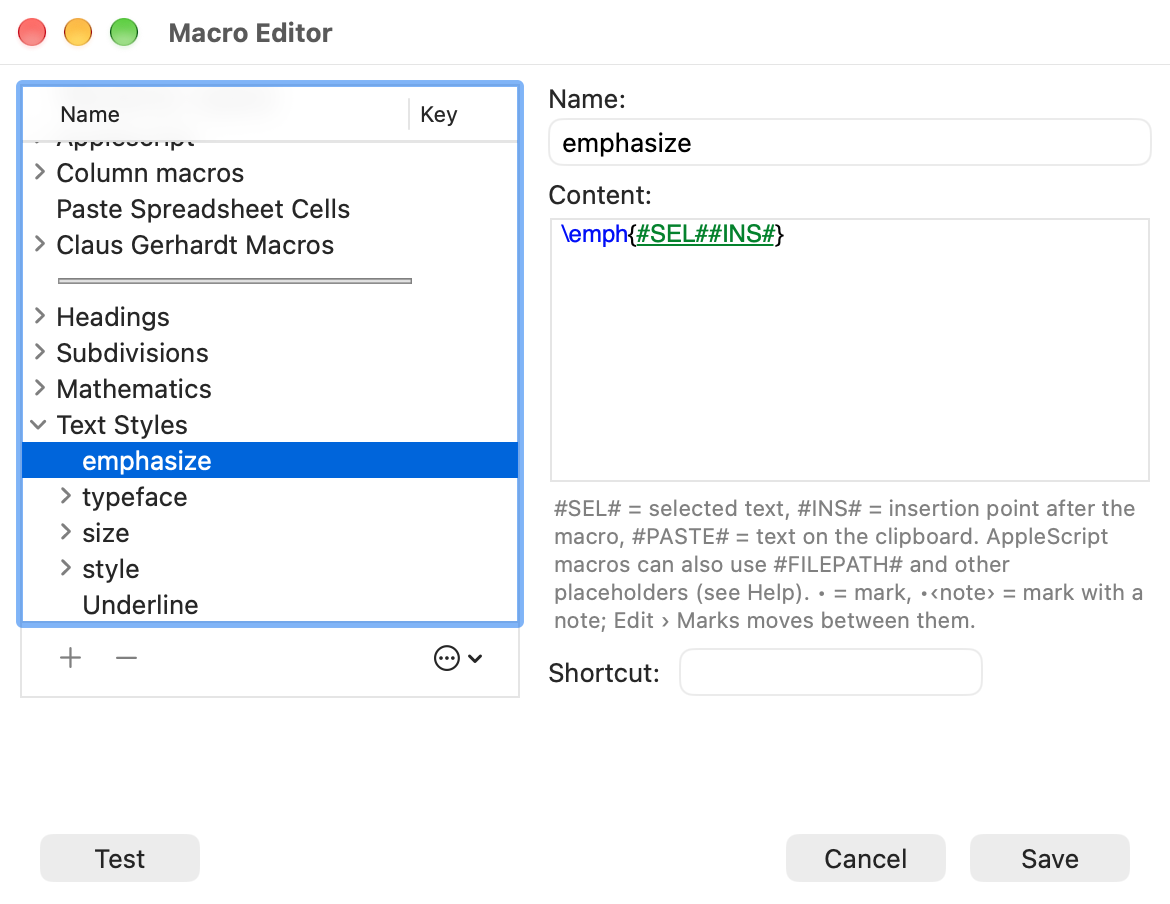
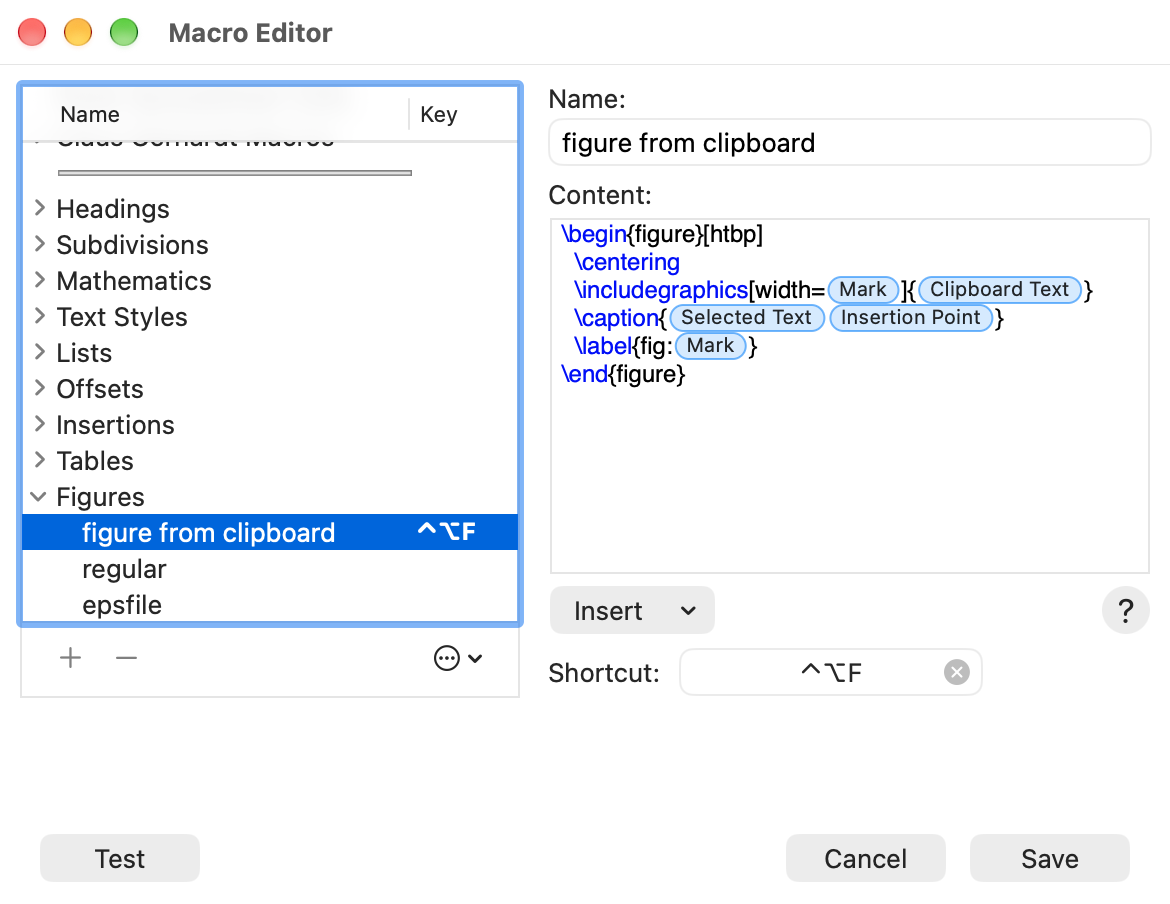
Show the Macro Editor with placeholder tokens
The Macro Editor screenshots show a figure macro whose clipboard text,
selected text, insertion point and marks are tokens, with a shortcut
without Command. The release notes use them for the Macro Editor item,
and the What's New section on shortcuts and key bindings adds them as
its third picture.

Changed region(s): [[0.0, 0.1549, 0.9846, 0.7743], [0.4615, 0.2478, 0.9538, 0.4336], [0.4615, 0.1239, 0.7077, 0.1858]]

diff --git a/website/release-notes-ja.html b/website/release-notes-ja.html
@@ -90,7 +90,7 @@
 <li>編集メニューとコンテキストメニューに「Unicode 正規化」を追加しました。NFC、NFD、NFKC、NFKDのほか、CJK互換漢字を変えないModified NFCとModified NFDを選べます。正規化した選択範囲は「文字情報」で表示します。</li>
 <li>編集メニューに「交換ペースト」を追加しました。選択範囲をクリップボードの文字列で置き換え、置き換えられた文字列をクリップボードに入れます。2か所の文字列を入れ替えるときは、一方をコピーし、もう一方を選択して交換ペーストを選び、最初の位置でペーストします。何も選択していない場合は、通常のペーストと同じです。</li>
 <li>マクロとキーバインドで、<code>#SEL#</code>が選択範囲に置き換わるのと同様に、<code>#PASTE#</code>がクリップボードの文字列に置き換わるようにしました。</li>
-<li>マクロエディタの内容を、ソースと同じようにテーマの色で色分けするようにしました。TeXのマクロはソースと同じ規則で、AppleScriptのマクロはコメント・文字列・予約語・数値・生のイベント（<code>«…»</code>）を色分けします。実行のときに置き換えられるプレースホルダ（TeXのマクロでは<code>#SEL#</code>・<code>#PASTE#</code>・最初の<code>#INS#</code>、AppleScriptのマクロでは<code>#FILEPATH#</code>など）は、マーカーの色に下線を付けて示します。内容に貼り付けた文字は、元のフォントや色を持ち込みません。設定の「ソースのカラー表示」をオフにすると、この色分けもしません。<figure class="note-shot"><img src="assets/release-notes/ja/macro-editor.png" width="585" height="452" alt="プレースホルダに下線の付いたTeXのマクロを示すマクロエディタ" loading="lazy"></figure></li>
+<li>マクロエディタの内容を、ソースと同じようにテーマの色で色分けするようにしました。TeXのマクロはソースと同じ規則で、AppleScriptのマクロはコメント・文字列・予約語・数値・生のイベント（<code>«…»</code>）を色分けします。実行のときに置き換えられるプレースホルダ（<code>#SEL#</code>・<code>#INS#</code>・<code>#PASTE#</code>、マーク•、AppleScriptのマクロの<code>#FILEPATH#</code>などのパス）は、「選択中の文字列」のように意味を示す丸い札で表示します。マクロには書いたとおりの文字列で保存します。プレースホルダは入力するか、内容の下の「挿入」メニューから選びます。その右の「?」で一覧を見られます。内容に貼り付けた文字は、元のフォントや色を持ち込みません。設定の「ソースのカラー表示」をオフにすると、この色分けもしません。<figure class="note-shot"><img src="assets/release-notes/ja/macro-editor.png" width="585" height="452" alt="プレースホルダを札で示すTeXのマクロと、「挿入」メニュー、Commandなしのショートカットを示すマクロエディタ" loading="lazy"></figure></li>
 <li>日本語の文章でASCIIと見分けにくい全角英数字・記号とマイナス記号を、「設定」→「テーマ」→「強調表示」の「全角英数記号」「全角英数記号の背景」の色で表示できるようにしました。同梱のテーマにはこの色を設定してあります。この色を持たないテーマ（<code>~/Library/TeXShop/Themes</code>にある既存のテーマを含む）では、ほかの文字と同じに表示します。<figure class="note-shot"><img src="assets/release-notes/ja/fullwidth.png" width="591" height="220" alt="全角の英数字・記号が別の色で表示されたソース" loading="lazy"></figure></li>
 <li>文字コードのマジックコメントがないファイルを開くときに、文字コードを自動で判定するようにしました。BOMの有無にかかわらずUnicodeのファイル、日本語・中国語・韓国語のファイル、利用者の言語の1バイト文字コードのファイルを判定できます。inputencで宣言された文字コードも手がかりにします。判定は隠し設定で無効にできます。</li>
 <li><a href="https://github.com/Uwe-Schmock">Uwe Schmock</a>氏の報告により、「実験」の処理を専用コンソールに分離し、入力・中止・後片付けを通常のタイプセットと独立させました。実験を閉じたり置き換えたりしても、その実験の処理だけを停止します。「実験」のコンソールは、「実験」のソースとプレビューのパネルと同じく、書類のウインドウの上に浮かびます。「実験」をタイプセットしたときと「コンソールを表示」（Command＋0）でパネルの前に出て、パネルをクリックするとそのパネルが前に出ます。設定の「コンソール」で「エラーがあったとき表示」を選んでいるときは、TeX がエラーを報告するか入力を待つまで、「実験」のコンソールは表示しません（<a href="https://github.com/TeXShopProject/TeXShop/issues/8">#8</a>）。<figure class="note-shot"><img src="assets/release-notes/ja/experiment.png" width="572" height="431" alt="定理1を参照する断片を入れた「実験」のソースのパネルと、それを組んだ「実験」のプレビュー" loading="lazy"></figure></li>
@@ -138,7 +138,7 @@
 <li>同梱のテーマに、それぞれの配色に合うexpl3の色を設定しました。この色を持たないテーマ（<code>~/Library/TeXShop/Themes</code>にある既存のテーマを含む）では、従来どおり標準のexpl3の色を使います。</li>
 <li>同梱のテーマで、背景の上で読みにくかった色を直しました。Draculaの丸括弧・波括弧・角括弧をテーマの文字色に、TransparentThemeのマーカー（<code>$</code>・<code>&amp;</code>・量指定）の色を暗い黄色に、SolarizedLiteのマーカーの色をテーマの索引の色に変えました。<code>~/Library/TeXShop/Themes</code>にある既存のテーマは色が変わりません。色は「設定 → テーマ」で変えられます。</li>
 <li>行番号をシステムの等幅フォントで表示し、どの行番号も桁がそろうようにしました。</li>
-<li>ダイアログのボタンを、AppleのHuman Interface Guidelinesに沿って配置しました。既定のボタンを右端に、その左に「キャンセル」を、ウインドウを閉じない操作を左端に置き、互いに間隔をあけました。マクロエディタでは、一覧の下の帯に、複数置換の窓と同じく「＋」「−」と「サブメニュー」「区切り」「複製」のメニューを置き、内容欄をソースと同じフォントとテーマの色で表示し、#SEL#・#INS#・#PASTE#の説明を加えました。</li>
+<li>ダイアログのボタンを、AppleのHuman Interface Guidelinesに沿って配置しました。既定のボタンを右端に、その左に「キャンセル」を、ウインドウを閉じない操作を左端に置き、互いに間隔をあけました。マクロエディタでは、一覧の下の帯に、複数置換の窓と同じく「＋」「−」と「サブメニュー」「区切り」「複製」のメニューを置き、内容欄をソースと同じフォントとテーマの色で表示し、プレースホルダの一覧を「挿入」の右の「?」で見られるようにしました。</li>
 <li>すべての言語で、画面の文字をシステムフォントで表示するようにしました。日本語・韓国語・中国語（簡体字）・スペイン語の一部の窓とパネル、いくつかの言語の検索パネル・マクロエディタ・LaTeXパネル・行列パネル、および文字情報は、ヒラギノ、AquaKana、黒体、Apple SD Gothic Neo、Lucida Grande、Helvetica、Times New Roman などの固定したフォントを使っていました。倍率パネルの「Scale」やルートファイル設定の例のように、末尾が欠けていたラベルも全体を表示するようにしました。</li>
 <li>いくつかの窓と言語で、欠けたり重なったりしていた文字と選択肢を、すべて表示するようにしました。窓を小さくしたときのコンソール上部のボタンとテキスト注釈パネルの揃えの選択肢、コンソールの入力欄の説明（2行で表示）です。入力欄のフォーカスの枠が窓の端で切れたり、ほかの部品に重なったりしないようにし、コンソールの入力欄の上下の余白をそろえました。</li>
 <li>Experimentのコンソールの入力欄を、書類のコンソールと同じ上下の余白と高さにし、フォーカスの枠も表示するようにしました。スペルチェックパネルの「すべて変更」の置換欄を、折り返さず1行で表示するようにしました。プレビューで選択範囲の横に出る大きさの表示が欠けないようにしました。数値の欄と横の矢印ボタンの間を広げ、フォーカスの枠が矢印ボタンにかからないようにしました。</li>
@@ -155,7 +155,7 @@
 <li><strong>プレビューの矢印キー</strong>：<a href="https://github.com/svb-bit">svb-bit</a>氏の提案により、単ページ・見開き表示で拡大したページが縦にスクロールできるとき、上下矢印キーはページ内を画面上の一定量ずつスクロールし、ページ端で止まるようにしました。前後のページへは移りません。ページを送るには、Command＋右／左矢印、Page Up／Page Down、スペースキーを使います（<a href="https://github.com/TeXShopProject/TeXShop/issues/9">#9</a>）。</li>
 <li><strong>macOSで設定したメニューのショートカット</strong>：一部のメニュー名の変更により、macOSの「システム設定」で登録したTeXShop用のショートカット（<code>NSUserKeyEquivalents</code>）が機能しなくなる場合があります。今後は、TeXShopの「設定」→「キーボード」にある「メニューのショートカット」で設定してください。旧<code>KeyEquivalents.plist</code>の「キーバインド」サブメニューの先頭項目への指定は、「ソース」の「キーバインド」へ引き継ぎます。旧「コマンド補完」サブメニューの「用語を追加」への指定は、名前でも番号でも「コマンド補完リストに追加」へ引き継ぎます。削除した編集項目や範囲外の番号への指定は無視します。コマンド補完ファイルの編集は「設定」→「キーボード」のボタンに、キーバインドの編集は同じ場所の一覧になり、旧メニュー名による割り当ては使えません。</li>
 <li><strong>マクロのショートカット</strong>：マクロのショートカットは、キーを入力して修飾キーにチェックを付けるのではなく、マクロエディタでキーを押して設定するようになりました。Commandを含まないControlの組み合わせやF1〜F20も使えます。以前の版で保存したショートカットはCommand付きのままです。</li>
-<li><strong>マーク</strong>：マークはコマンド補完がなくても使えるので、マークの操作を「編集」→「マーク」に移しました。Controlキーを押したときにしか出なかった「メモ付きマークを挿入」（⌃⌘8）を常に表示し、選んだ文字をメモにできるようにしました。「マークの使い方…」で•と•‹メモ›のヘルプを開けます。メニュー項目にはそれぞれ説明を表示し、マクロエディタの説明欄とキーバインドの一覧の「？」にもマークの説明を載せました。</li>
+<li><strong>マーク</strong>：マークはコマンド補完がなくても使えるので、マークの操作を「編集」→「マーク」に移しました。Controlキーを押したときにしか出なかった「メモ付きマークを挿入」（⌃⌘8）を常に表示し、選んだ文字をメモにできるようにしました。「マークの使い方…」で•と•‹メモ›のヘルプを開けます。メニュー項目にはそれぞれ説明を表示し、マクロエディタとキーバインドの一覧の「?」にもマークの説明を載せました。</li>
 <li><strong>コマンド補完</strong>：「ソース」メニューの「コマンド補完」サブメニューには「用語を追加」しかなかったので、同じ位置の1項目「コマンド補完リストに追加」（⇧⌘W）にまとめました。選んだ文字列をコマンド補完のリストに加えます。</li>
 <li><strong>スタイルファイルを開く</strong>：「ヘルプ」メニューから「ファイル」メニューの「開く」の下へ移し、ファイルを探すコマンドの既定を、kpsewhich を呼ぶだけの teTeX のスクリプト kpsetool から <code>kpsewhich -progname=latex -format=tex</code> に変えました。パネルの題名は「スタイルファイルを開く」になり、MnSymbol.sty のように大文字を含む名前もあるので、「小文字推奨」の注記を外しました。設定の「タイプセット」の項目名は「kpsewhich」になりました。保存してあるコマンドはそのまま使えます。</li>
 <li><strong>Apple Distiller</strong>：設定の「タイプセット」から Apple Distiller の選択を取り除きました。Distiller は macOS 14 で削除された <code>/usr/bin/pstopdf</code> を呼んでいたため、PostScript は常に Ghostscript で変換します。この群の名前は「Ghostscript」、スイッチの名前は「-dALLOWPSTRANSPARENCY」になりました。</li>

diff --git a/website/release-notes.html b/website/release-notes.html
@@ -70,7 +70,7 @@
 <li>Add Unicode Normalization to the Edit menu and to the contextual menu. It offers NFC, NFD, NFKC and NFKD, and Modified NFC and Modified NFD, which keep CJK compatibility ideographs unchanged. Character Info then shows the normalized selection.</li>
 <li>Add Swap with Clipboard to the Edit menu. It replaces the selection with the text on the clipboard and puts the replaced text on the clipboard. To exchange two pieces of text, copy one, select the other and choose Swap with Clipboard, then paste where the first one was. With nothing selected, it pastes as usual.</li>
 <li>Expand <code>#PASTE#</code> in macros and key bindings to the text on the clipboard, as <code>#SEL#</code> stands for the selection.</li>
-<li>Color the contents of the Macro Editor as the source is colored, in the theme’s colors. A TeX macro follows the rules of the source; an AppleScript macro shows its comments, text in quotes, reserved words and numbers. The names that a macro replaces when it runs, <code>#SEL#</code>, <code>#PASTE#</code> and the first <code>#INS#</code> in a TeX macro and the file paths in an AppleScript macro, have an underline in the marker color. Paste adds only the text, without its fonts or colors. Turning off Syntax Coloring in Settings turns this coloring off as well.<figure class="note-shot"><img src="assets/release-notes/en/macro-editor.png" width="585" height="452" alt="The Macro Editor showing a TeX macro whose placeholders are underlined" loading="lazy"></figure></li>
+<li>Color the contents of the Macro Editor as the source is colored, in the theme’s colors. A TeX macro follows the rules of the source; an AppleScript macro shows its comments, text in quotes, reserved words and numbers. The placeholders that a macro replaces when it runs, <code>#SEL#</code>, <code>#INS#</code>, <code>#PASTE#</code>, the marks • and <code>#FILEPATH#</code> and the other paths of an AppleScript macro, are shown as rounded tokens that say what they stand for, such as Selected Text; the macro keeps them as they are written. Type a placeholder, or choose it from the Insert menu below the contents; the help button at its right lists them all. Paste adds only the text, without its fonts or colors. Turning off Syntax Coloring in Settings turns this coloring off as well.<figure class="note-shot"><img src="assets/release-notes/en/macro-editor.png" width="585" height="452" alt="The Macro Editor showing a TeX macro whose placeholders are tokens, with the Insert menu and a shortcut without Command" loading="lazy"></figure></li>
 <li>Color fullwidth letters, digits and symbols, and the minus sign, which look much like ASCII in Japanese text, with the new Fullwidth and Fullwidth (Background) colors under Settings → Themes → Highlights. The bundled themes define these colors; themes without them, including existing themes in <code>~/Library/TeXShop/Themes</code>, show these characters like other text.<figure class="note-shot"><img src="assets/release-notes/en/fullwidth.png" width="591" height="220" alt="A source with fullwidth letters, digits and symbols shown in their own color" loading="lazy"></figure></li>
 <li>Detect the encoding of a file that has no encoding magic comment when it is opened. Unicode files with or without a byte order mark, Japanese, Chinese and Korean files, and files in one-byte encodings of the user’s languages are recognized, with the encoding declared to inputenc as a hint. A hidden setting turns the detection off.</li>
 <li>Run Experiment jobs in a separate console with independent input, cancellation and cleanup, so they do not interfere with normal typesetting. Closing or replacing an Experiment cancels only its own job. The Experiment console floats with the Experiment source and preview panels: it comes in front of them when an Experiment is typeset and with Show Console (Command-0), and a panel that is clicked comes in front of it again. When Settings → Console shows the console only when an error occurs, the Experiment console stays hidden until TeX reports an error or waits for input. Reported by <a href="https://github.com/Uwe-Schmock">Uwe Schmock</a> (<a href="https://github.com/TeXShopProject/TeXShop/issues/8">#8</a>).<figure class="note-shot"><img src="assets/release-notes/en/experiment.png" width="572" height="431" alt="The Experiment source panel with a fragment that refers to Theorem 1, and the Experiment preview showing it typeset" loading="lazy"></figure></li>
@@ -118,7 +118,7 @@
 <li>Give each bundled theme expl3 colors that suit it. Themes without these colors, including existing themes in <code>~/Library/TeXShop/Themes</code>, keep the built-in expl3 colors.</li>
 <li>Show parentheses and each curly brace and square bracket in the text color of the bundled Dracula theme, and the marker color of $ and &amp; in a dark yellow in TransparentTheme and in the theme’s index color in SolarizedLite; they were almost invisible on the background. Themes already in <code>~/Library/TeXShop/Themes</code> keep their colors, which can be changed in Settings → Themes.</li>
 <li>Draw line numbers in the system’s monospaced font, so that the digits of all line numbers line up.</li>
-<li>Space the buttons of dialogs as the Human Interface Guidelines describe: the default button at the trailing edge with Cancel beside it, and actions that do not close the window at the leading edge. The macro editor edits its list with + and − buttons and a menu for Submenu, Separator and Duplicate in a bar at the bottom of the list, as in the Multiple Replace window, shows its contents in the source font and the theme colors, and explains #SEL#, #INS# and #PASTE#.</li>
+<li>Space the buttons of dialogs as the Human Interface Guidelines describe: the default button at the trailing edge with Cancel beside it, and actions that do not close the window at the leading edge. The macro editor edits its list with + and − buttons and a menu for Submenu, Separator and Duplicate in a bar at the bottom of the list, as in the Multiple Replace window, shows its contents in the source font and the theme colors, and lists the placeholders under the help button next to Insert.</li>
 <li>Show interface text in the system font in every language. Some windows and panels in the Japanese, Korean, Simplified Chinese and Spanish localizations, the Find panel, Macro Editor, LaTeX panel and Matrix panel of several localizations, and Character Info used fixed fonts such as Hiragino, AquaKana, Heiti, Apple SD Gothic Neo, Lucida Grande, Helvetica or Times New Roman. Labels that were cut off, such as Scale in the magnification panel and the examples in the root file sheet, now show their whole text.</li>
 <li>Show the whole text of labels and choices that were cut off or drawn over each other in some windows and languages: the buttons at the top of the console and the alignment choices of the text annotation panel when these windows are made smaller, and the explanation in the input field of the console, which now uses two lines. The keyboard focus highlight around input fields is no longer cut off at the window edge or drawn over other controls, and the input field of the console has the same margin above and below.</li>
 <li>The input field of the Experiment console has the same margins as that of the console, and shows the keyboard focus highlight. The replacement field below the spelling panel stays on one line, and the size shown beside a selection in the preview is no longer cut off. Numeric fields are further apart from their arrow buttons, so that the focus highlight does not cover them.</li>
@@ -135,7 +135,7 @@
 <li><strong>Arrow keys in the preview:</strong> in single-page and two-page layouts, when an enlarged page can scroll vertically, the Up and Down Arrow keys scroll within the page at a consistent on-screen step and stop at its edge instead of turning the page. Use Command-Right/Left Arrow, Page Up/Page Down, or Space to change pages. Suggested by <a href="https://github.com/svb-bit">svb-bit</a> (<a href="https://github.com/TeXShopProject/TeXShop/issues/9">#9</a>).</li>
 <li><strong>Menu shortcuts set in macOS:</strong> some menu items have been renamed, so shortcuts assigned to TeXShop in macOS System Settings (<code>NSUserKeyEquivalents</code>) may no longer work. Use TeXShop’s built-in shortcut editor under Settings → Keyboard → Menu Shortcuts instead. Existing <code>KeyEquivalents.plist</code> entries for the former Key Bindings submenu’s first item still apply to the Key Bindings item in Source, and entries for Add Word in the former Command Completion submenu, by title or by position, apply to Add to Command Completion List. Entries for removed editing items or out-of-range numbers are ignored. The command completion file editor is now a button in Settings → Keyboard, and key bindings are a list there; they cannot be assigned by their former menu titles.</li>
 <li><strong>Macro shortcuts:</strong> a macro’s shortcut is now set in the Macro Editor by pressing it, instead of typing the key and checking the modifiers, and it may use Control without Command, or one of F1–F20. Shortcuts saved by earlier versions keep Command.</li>
-<li><strong>Marks:</strong> the mark commands have moved to Edit → Marks, since marks work without command completion. Insert Mark with Note (Control-Command-8), which appeared only while Control was held, is now always in the menu and turns selected text into the note, and How to Use Marks opens the help page about • and •‹note›. The menu items explain themselves in tooltips, the macro editor explains marks below its contents, and the ? button of the key bindings list shows them.</li>
+<li><strong>Marks:</strong> the mark commands have moved to Edit → Marks, since marks work without command completion. Insert Mark with Note (Control-Command-8), which appeared only while Control was held, is now always in the menu and turns selected text into the note, and How to Use Marks opens the help page about • and •‹note›. The menu items explain themselves in tooltips, the help button of the macro editor lists marks, and the ? button of the key bindings list shows them.</li>
 <li><strong>Command completion:</strong> the Command Completion submenu in the Source menu, whose only item was Add Word, is replaced with one item in its place, Add to Command Completion List, which keeps the keyboard shortcut of Add Word. It adds the selected text to the command completion list.</li>
 <li><strong>Open Style File:</strong> it has moved from the Help menu to the File menu, below Open, and finds its files with <code>kpsewhich -progname=latex -format=tex</code> by default instead of the teTeX script kpsetool, which only called kpsewhich. Its panel is titled Open Style File and no longer suggests lower case, since names such as MnSymbol.sty must be typed as they are. The setting under Settings, Typesetting is now named kpsewhich; a command saved there keeps working.</li>
 <li><strong>Apple Distiller:</strong> the choice under Settings, Typesetting is removed. It called <code>/usr/bin/pstopdf</code>, which macOS 14 removed, so PostScript is now always converted with Ghostscript. The group is named Ghostscript, and its switch “-dALLOWPSTRANSPARENCY”.</li>

diff --git a/website/whats-new-ja.html b/website/whats-new-ja.html
@@ -10,7 +10,7 @@
 <p class="lead">TeXShop 6では、新しく設計し直された設定画面、あらゆるキーバインドのカスタマイズ、LaTeXの構文を考慮するスペルチェック、新しい検索パネルと複数置換、TeXのパスの自動設定、プロファイルによるエンジンの選択、固定できるリンクのポップアップを加え、分割したプレビューウインドウの動きを改め、アプリのアイコンを新しくしました。</p>
 <section class="feature-list" aria-label="主な変更">
 <article class="feature" id="settings"><div class="feature-text"><h2>新しく設計し直された設定画面</h2><p>設定画面を一から作り直しました。10の分類のサイドバーと、すべての設定を探せる検索欄を備え、分類ごとに名前の付いたグループに整理しました。</p></div><figure><img src="assets/whats-new/ja/settings.png" width="600" height="450" alt="「フォント」で検索した結果を示す設定画面"></figure></article>
-<article class="feature" id="shortcuts"><div class="feature-text"><h2>あらゆるキーバインドをカスタマイズ</h2><p>メニューのショートカットは、「設定」→「キーボード」でキーを押して設定します。機能の名前でもキーでも探せ、ほかで使われているキーは知らせ、1つずつでもまとめてでも元に戻せます。1文字の入力を決まった文字列に置き換えるキーバインドは、同じ所の一覧で編集します。文字列には、選択中の文字列、出力後のカーソル位置、クリップボードの文字列、マークを入れられます。マクロのショートカットも、マクロエディタでキーを押して設定します。</p></div><figure><img src="assets/whats-new/ja/menu-shortcuts.png" width="600" height="450" alt="「タイプセット」で探したメニューのショートカットの一覧" loading="lazy"><figcaption>メニューのショートカット</figcaption></figure><figure><img src="assets/whats-new/ja/key-bindings.png" width="600" height="450" alt="選択中の文字列や出力後のカーソル位置を入れたキーバインドの一覧" loading="lazy"><figcaption>キーバインド</figcaption></figure></article>
+<article class="feature" id="shortcuts"><div class="feature-text"><h2>あらゆるキーバインドをカスタマイズ</h2><p>メニューのショートカットは、「設定」→「キーボード」でキーを押して設定します。機能の名前でもキーでも探せ、ほかで使われているキーは知らせ、1つずつでもまとめてでも元に戻せます。1文字の入力を決まった文字列に置き換えるキーバインドは、同じ所の一覧で編集します。文字列には、選択中の文字列、出力後のカーソル位置、クリップボードの文字列、マークを入れられます。マクロのショートカットも、マクロエディタでキーを押して設定します。</p></div><figure><img src="assets/whats-new/ja/menu-shortcuts.png" width="600" height="450" alt="「タイプセット」で探したメニューのショートカットの一覧" loading="lazy"><figcaption>メニューのショートカット</figcaption></figure><figure><img src="assets/whats-new/ja/key-bindings.png" width="600" height="450" alt="選択中の文字列や出力後のカーソル位置を入れたキーバインドの一覧" loading="lazy"><figcaption>キーバインド</figcaption></figure><figure><img src="assets/release-notes/ja/macro-editor.png" width="585" height="452" alt="プレースホルダを札で示すTeXのマクロと、Commandなしのショートカットを示すマクロエディタ" loading="lazy"><figcaption>マクロエディタ</figcaption></figure></article>
 <article class="feature" id="spell-checking"><div class="feature-text"><h2>LaTeXの構文を考慮するスペルチェック</h2><p>TeXのコマンド、コメント、数式と、ラベル・キー・長さなどの引数を飛ばして検査します。よく使うパッケージの規則を備え、規則は編集できます。「すべて変更」は書類の中の同じ語をまとめて置き換え、1回で取り消せます。</p></div><figure><img src="assets/whats-new/ja/spell.png" width="600" height="530" alt="LaTeXのソースの本文で印の付いた2つの綴りの誤りと、「すべて変更」の欄に候補が入ったスペルのパネル" loading="lazy"></figure></article>
 <article class="feature" id="find-panel"><div class="feature-text"><h2>新しい検索パネル</h2><p>正規表現を使える、新しい検索と置換のパネルです。「すべて検索」はすべての一致を行とともに一覧にし、「すべてハイライト」は本文の中の一致を示します。検索欄と置換欄はソースのフォントの大きさの等幅フォントとソースのテーマで表示し、正規表現の部分ごとに色を分けて、誤りを示します。時間のかかる処理は裏で進み、キャンセルできます。</p></div><figure><img src="assets/whats-new/ja/advanced-find.png" width="600" height="494" alt="正規表現を入れた新しい検索パネルと、すべての一致の一覧、ソースで強調された一致" loading="lazy"></figure></article>
 <article class="feature" id="multiple-replace"><div class="feature-text"><h2>複数置換</h2><p>検索と置換の組を並べた一覧に名前を付けて保存し、上から順にまとめて適用します。正規表現も使え、選択範囲だけにも適用でき、取り消しは1回です。一覧はCotEditorの置換定義と同じJSONで保存し、「編集」→「検索」→「複数置換」から本文全体にすぐ適用できます。Unicode文字とajmacrosの命令を相互に変換する見本の組を同梱しました。</p></div><figure><img src="assets/release-notes/ja/multiple-replace.png" width="600" height="270" alt="検索と置換の組を4つ並べた複数置換の窓" loading="lazy"></figure></article>

diff --git a/website/whats-new.html b/website/whats-new.html
@@ -10,7 +10,7 @@
 <p class="lead">TeXShop 6 adds a redesigned Settings window, customizable shortcuts and key bindings, LaTeX-aware spell checking, a new Find panel with Multiple Replace, automatic TeX paths, engine profiles and pinned link previews, changes how a split Preview window behaves, and has a new app icon.</p>
 <section class="feature-list" aria-label="Main changes">
 <article class="feature" id="settings"><div class="feature-text"><h2>A redesigned Settings window</h2><p>Settings has been rebuilt from the ground up. A sidebar with ten categories and a search field that finds every setting, with each category organized into named groups.</p></div><figure><img src="assets/whats-new/en/settings.png" width="600" height="450" alt="The Settings window with the results of a search for font"></figure></article>
-<article class="feature" id="shortcuts"><div class="feature-text"><h2>Customize every shortcut and key binding</h2><p>Menu shortcuts are set in Settings → Keyboard by pressing the keys. Commands can be found by name or by key, keys already in use are reported, and one or all shortcuts can be restored. Key bindings, which replace a typed character with a set text, are edited in a list there; the text can hold the selected text, the insertion point, the clipboard text and marks. Macro shortcuts are also set by pressing the keys, in the Macro Editor.</p></div><figure><img src="assets/whats-new/en/menu-shortcuts.png" width="600" height="450" alt="The list of menu shortcuts found with Typeset" loading="lazy"><figcaption>Menu shortcuts</figcaption></figure><figure><img src="assets/whats-new/en/key-bindings.png" width="600" height="450" alt="The list of key bindings whose text holds the selected text and the insertion point" loading="lazy"><figcaption>Key bindings</figcaption></figure></article>
+<article class="feature" id="shortcuts"><div class="feature-text"><h2>Customize every shortcut and key binding</h2><p>Menu shortcuts are set in Settings → Keyboard by pressing the keys. Commands can be found by name or by key, keys already in use are reported, and one or all shortcuts can be restored. Key bindings, which replace a typed character with a set text, are edited in a list there; the text can hold the selected text, the insertion point, the clipboard text and marks. Macro shortcuts are also set by pressing the keys, in the Macro Editor.</p></div><figure><img src="assets/whats-new/en/menu-shortcuts.png" width="600" height="450" alt="The list of menu shortcuts found with Typeset" loading="lazy"><figcaption>Menu shortcuts</figcaption></figure><figure><img src="assets/whats-new/en/key-bindings.png" width="600" height="450" alt="The list of key bindings whose text holds the selected text and the insertion point" loading="lazy"><figcaption>Key bindings</figcaption></figure><figure><img src="assets/release-notes/en/macro-editor.png" width="585" height="452" alt="The Macro Editor showing a TeX macro whose placeholders are tokens, and a shortcut without Command" loading="lazy"><figcaption>Macro Editor</figcaption></figure></article>
 <article class="feature" id="spell-checking"><div class="feature-text"><h2>LaTeX-aware spell checking</h2><p>Spell checking skips TeX commands, comments, mathematics, and arguments such as labels, keys and lengths. Rules for common packages are included and can be edited. Change All replaces a word throughout the document with a single undo.</p></div><figure><img src="assets/whats-new/en/spell.png" width="600" height="521" alt="Two misspelled words marked in the prose of a LaTeX source, and the spelling panel with a suggestion in the Change All field" loading="lazy"></figure></article>
 <article class="feature" id="find-panel"><div class="feature-text"><h2>New Find panel</h2><p>A new find and replace panel with regular expressions. Find All lists every match with its line, and Highlight All marks the matches in the text. The find and replace fields use a monospaced font at the size of the source font and the theme of the source, color the parts of a regular expression and mark errors. Long operations run in the background and can be canceled.</p></div><figure><img src="assets/whats-new/en/advanced-find.png" width="600" height="494" alt="The new Find panel with a regular expression and the list of all matches, and the matches highlighted in the source" loading="lazy"></figure></article>
 <article class="feature" id="multiple-replace"><div class="feature-text"><h2>Multiple Replace</h2><p>Save a named list of find and replace pairs and apply them in order from the top, with regular expressions, in the whole text or only in the selection, and with a single undo. The lists are saved as JSON in the format of CotEditor’s replacement definitions, and Edit → Find → Multiple Replace applies one to the whole text at once. Two sample sets convert between Unicode characters and ajmacros commands.</p></div><figure><img src="assets/release-notes/en/multiple-replace.png" width="600" height="270" alt="The Multiple Replace window with a set of four find and replace pairs" loading="lazy"></figure></article>
